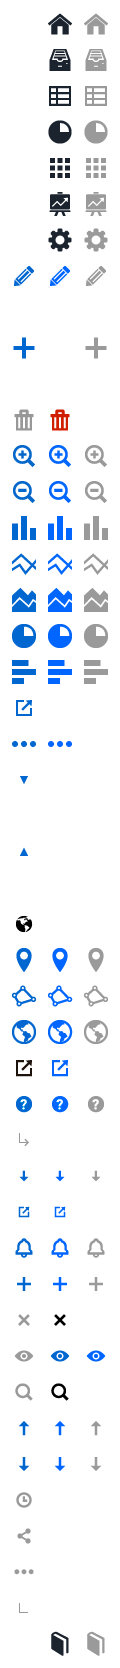
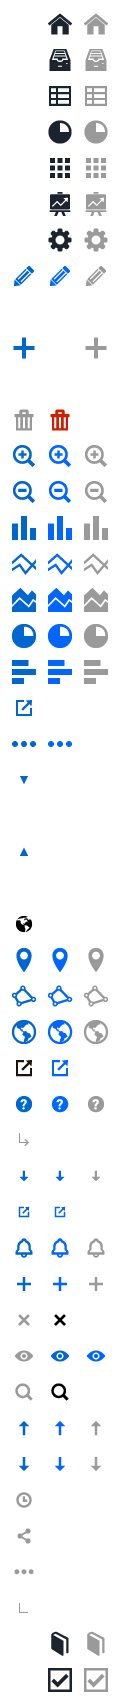
nuevo icono para trivia

diff --git a/core/media/core/styles/forms.scss b/core/media/core/styles/forms.scss
@@ -105,14 +105,7 @@ div.errorFormValidation{color:#f45f64;padding-top:7px;font-size:12px;text-shadow
 /*LABEL*/
 label.labelField{text-align:right;font-size:14px;color:#767676;font-weight:normal;padding-top:7px;font-weight:bold;display:block;}
 .form label{font-size:14px;display:inline-block;height:30px;line-height:30px;}
-
-/*ERROR VALIDATION*/
-/*
-.formErrorMessageContainer,
-.formErrorMessageContainerLeft{position:relative;}
-.formErrorMessageContainer div.errorFormValidation,
-.formErrorMessageContainerLeft div.errorFormValidation{background:#FFF1AF;border:1px solid #FFF;color:#E18211;font-size:12px;font-weight:bold;text-align:left;padding:1px 10px !important;position:absolute;top:-2px;left:250px;z-index:200;width:auto;width:-moz-max-content;min-width:144px;height:30px;line-height:30px;overflow:hidden;white-space:nowrap;opacity:0.9;filter:alpha(opacity=90);-ms-filter:"progid:DXImageTransform.Microsoft.Alpha(Opacity=90)";-moz-border-radius:3px;-webkit-border-radius:3px;border-radius:3px;-moz-box-shadow:2px 2px 5px rgba(0, 0, 0, 0.4);-webkit-box-shadow:2px 2px 5px rgba(0, 0, 0, 0.4);box-shadow:2px 2px 5px rgba(0, 0, 0, 0.4);}
-*/
+.row label span.tip{font-size:11px;}
   
 /*PASSWORD STRENGTH*/
 .is0{background:url(/static/core/images/common/fd_passwordStrength.gif) no-repeat 0 0;width:68px;height:7px;overflow:hidden;}

diff --git a/core/media/core/styles/icons.css b/core/media/core/styles/icons.css
@@ -76,6 +76,12 @@ li:hover .button .icon-user-manual{background-position:-12px -1632px;}
 li.active .icon-user-manual{background-position:-48px -1632px;}
 .icon-user-manual.inactive{background-position:-84px -1632px;}
 
+.icon-trivia,
+li:hover .button .icon-trivia{background-position:-12px -1668px;}
+.icon-trivia:hover,
+li.active .icon-trivia{background-position:-48px -1668px;}
+.icon-trivia.inactive{background-position:-84px -1668px;}
+
 /* General icons */
 .icon-view-site{background-position:-12px -696px;}
 .button:hover .icon-view-site{background-position:-48px -696px;}
